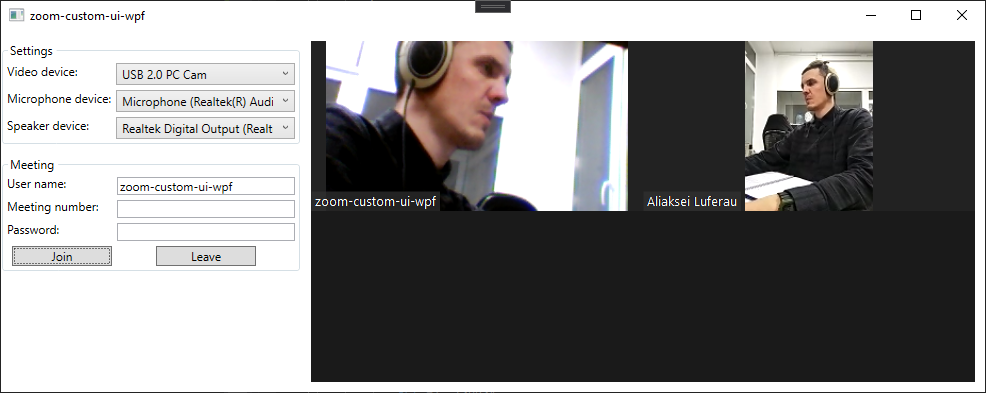
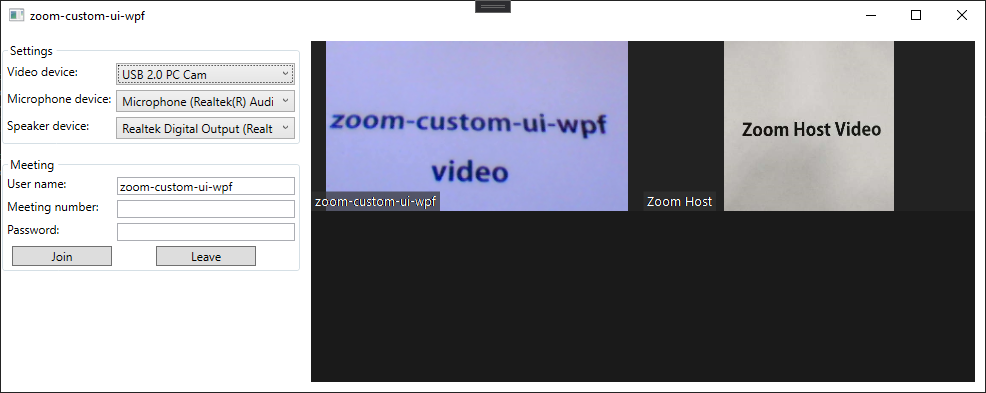
Add VideoMirrorEffect setting

Changed region(s): [[0.3043, 0.0916, 0.9128, 0.5496]]

diff --git a/Services/Zoom/ZoomService.cs b/Services/Zoom/ZoomService.cs
@@ -451,7 +451,8 @@ namespace zoom_custom_ui_wpf.Services.Zoom
             // Video
             var videoSettings = ZOOM_SDK_DOTNET_WRAP.CZoomSDKeDotNetWrap.Instance.GetSettingServiceWrap().GetVideoSettings();
             videoSettings.EnableHardwareEncode(settings.HardwareEncode);
-
+            videoSettings.EnableVideoMirrorEffect(settings.VideoMirrorEffect);
+            
             // Audio
             var audioSettings = ZOOM_SDK_DOTNET_WRAP.CZoomSDKeDotNetWrap.Instance.GetSettingServiceWrap().GetAudioSettings();
             audioSettings.EnableAutoJoinAudio(settings.AutoJoinAudio);

diff --git a/ViewModels/MainViewModel.cs b/ViewModels/MainViewModel.cs
@@ -89,6 +89,7 @@ namespace zoom_custom_ui_wpf.ViewModels
             {
                 // Video
                 HardwareEncode = true,
+                VideoMirrorEffect = false,
 
                 // Audio
                 AutoJoinAudio = true

diff --git a/Services/Zoom/ZoomSettings.cs b/Services/Zoom/ZoomSettings.cs
@@ -5,6 +5,8 @@
         // Video
         public bool HardwareEncode { get; set; }
 
+        public bool VideoMirrorEffect { get; set; }
+
         // Audio
         public bool AutoJoinAudio { get; set; }
 
